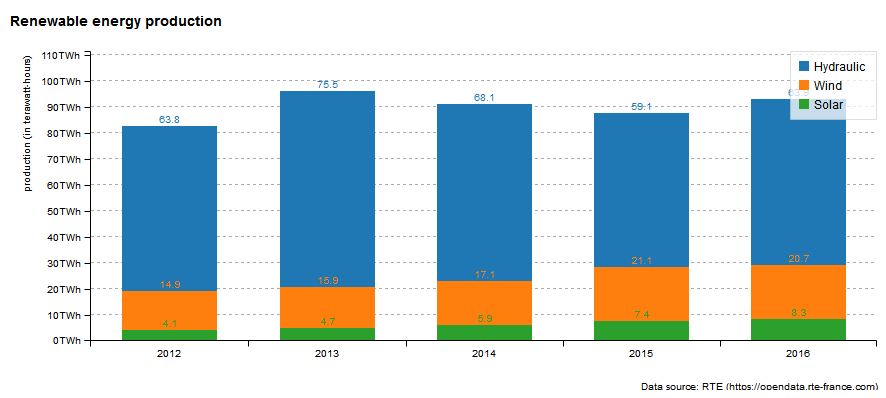
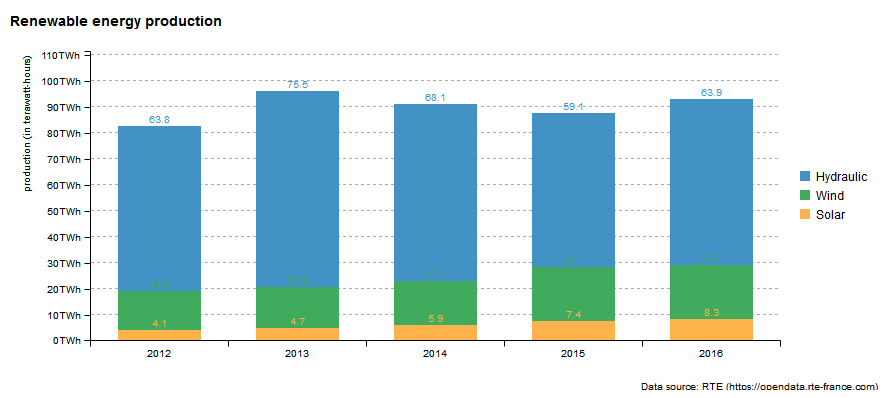
update readme

diff --git a/README.md b/README.md
@@ -6,13 +6,13 @@
 [![Travis-CI Build Status](https://travis-ci.org/dreamRs/billboarder.svg?branch=master)](https://travis-ci.org/dreamRs/billboarder)
 
 
-:construction: :warning: **package under developpement !** :warning: :construction:
-
 
 ## Overview
 
 This package allow you to use [billboard.js](https://naver.github.io/billboard.js/),
 a re-usable easy interface JavaScript chart library, based on D3 v4+.
+
+A **proxy** method is implemented to smoothly update charts in shiny applications, see below for details.
 
 Note : developpement is heavily inspired by awesome [highcharter](http://jkunst.com/highcharter/) by [Joshua Kunst](https://github.com/jbkunst).
 
@@ -27,86 +27,79 @@ devtools::install_github("dreamRs/billboarder")
 
 ## Bar chart
 
-For now, you can do barcharts !
+You can do barcharts !
 
 
 ```r
 library("billboarder")
-library("magrittr")
-library("data.table")
 
 # data
-data("mpg", package = "ggplot2")
-setDT(mpg)
+data("prod_par_filiere")
 
 # a bar chart !
 billboarder() %>%
-  bb_barchart(data = mpg[, list(count = .N), by = manufacturer][order(count, decreasing = TRUE)]) %>%
+  bb_barchart(data = prod_par_filiere[, c("annee", "prod_hydraulique")], color = "#102246") %>%
   bb_y_grid(show = TRUE) %>%
+  bb_y_axis(tick = list(format = suffix("TWh")),
+            label = list(text = "production (in terawatt-hours)", position = "outer-top")) %>% 
   bb_legend(show = FALSE) %>% 
-  bb_y_axis(label = list(text = "# of models", position = "outer-top")) %>% 
-  bb_title(text = "Popular models by manufacturer", position = "left-top", 
-           padding = list(top = 0, right = 0, left = 0, bottom = 20))
+  bb_labs(title = "French hydraulic production",
+          caption = "Data source: RTE (https://opendata.rte-france.com)")
 ```
 
-![](inst/img/barchart0.png)
+![](inst/img/rte_barchart0.png)
 
 
 
-Or with `dplyr` :
-
-```r
-library("dplyr")
-
-mpg %>% 
-  count(manufacturer) %>% 
-  arrange(n) %>% 
-  billboarder(data = .) %>% 
-  bb_barchart() %>%
-  bb_axis(rotated = TRUE) %>%
-  bb_title(text = "Number of models by manufacturer", position = "left-top")
-```
-
-
-
-
-### Dodge and stacked bar charts
-
-You have to reshape the data in a "wide" format :
+And dodge bar chart too !
 
 ```r
+library("billboarder")
+
+# data
+data("prod_par_filiere")
+
+# dodge bar chart !
 billboarder() %>%
-  bb_barchart(
-    data = dcast(
-      data = mpg[, list(count = .N), by = list(manufacturer, year)],
-      formula = manufacturer~year,
-      value.var = "count"
-    )
-  )
-
+  bb_barchart(data = prod_par_filiere[, c("annee", "prod_hydraulique", "prod_eolien", "prod_solaire")]) %>%
+  bb_data(names = list(prod_hydraulique = "Hydraulic", prod_eolien = "Wind", prod_solaire = "Solar")) %>% 
+  bb_y_grid(show = TRUE) %>%
+  bb_y_axis(tick = list(format = suffix("TWh")),
+            label = list(text = "production (in terawatt-hours)", position = "outer-top")) %>% 
+  bb_legend(position = "inset", inset = list(anchor = "top-right")) %>% 
+  bb_labs(title = "Renewable energy production",
+          caption = "Data source: RTE (https://opendata.rte-france.com)")
 ```
 
-![](inst/img/barchart_dodge1.png)
+![](inst/img/rte_barchart_dodge.png)
 
 
-With `dplyr` and `tidyr` :
+Even stacked bar charts !
 
 ```r
-mpg %>% 
-  group_by(manufacturer, year) %>% 
-  summarise(n = n()) %>% 
-  spread(year, n) %>% 
-  billboarder(data = .) %>%
-  bb_barchart(stacked = TRUE) %>% 
-  bb_data(labels = TRUE)
+library("billboarder")
 
+# data
+data("prod_par_filiere")
+
+# stacked bar chart !
+billboarder() %>%
+  bb_barchart(data = prod_par_filiere[, c("annee", "prod_hydraulique", "prod_eolien", "prod_solaire")], stacked = TRUE) %>%
+  bb_data(names = list(prod_hydraulique = "Hydraulic", prod_eolien = "Wind", prod_solaire = "Solar"), labels = TRUE) %>% 
+  bb_colors_manual("prod_eolien" = "#41AB5D", "prod_hydraulique" = "#4292C6", "prod_solaire" = "#FEB24C") %>%
+  bb_y_grid(show = TRUE) %>%
+  bb_y_axis(tick = list(format = suffix("TWh")),
+            label = list(text = "production (in terawatt-hours)", position = "outer-top")) %>% 
+  bb_legend(position = "right") %>% 
+  bb_labs(title = "Renewable energy production",
+          caption = "Data source: RTE (https://opendata.rte-france.com)")
 ```
 
-![](inst/img/barchart_stacked1.png)
+![](inst/img/rte_barchart_stacked.png)
 
 
 
-## Scatter chart
+## Scatter plot
 
 Classic :
 
@@ -118,6 +111,150 @@ billboarder() %>%
 
 ```
 ![](inst/img/scatterchart0.png)
+
+
+
+## Pie charts
+
+If you have to, you can do pie charts !
+
+```r
+library("billboarder")
+
+# data
+data("prod_par_filiere")
+nuclear2016 <- data.frame(
+  sources = c("Nuclear", "Other"),
+  production = c(
+    prod_par_filiere$prod_nucleaire[prod_par_filiere$annee == "2016"],
+    prod_par_filiere$prod_total[prod_par_filiere$annee == "2016"] -
+      prod_par_filiere$prod_nucleaire[prod_par_filiere$annee == "2016"]
+  )
+)
+
+# pie chart !
+billboarder() %>% 
+  bb_piechart(data = nuclear2016) %>% 
+  bb_labs(title = "Share of nuclear power in France in 2016",
+          caption = "Data source: RTE (https://opendata.rte-france.com)")
+```
+
+![](inst/img/rte_piechart.png)
+
+
+You can also do donut charts.
+
+
+## Lines charts
+
+A time serie with `Date` ! (subchart is optionnal)
+
+```r
+library("billboarder")
+
+# data
+data("equilibre_mensuel")
+
+# line chart
+billboarder() %>% 
+  bb_linechart(
+    data = equilibre_mensuel[, c("date", "consommation", "production")], 
+    type = "spline"
+  ) %>% 
+  bb_x_axis(tick = list(format = "%Y-%m", fit = FALSE)) %>% 
+  bb_x_grid(show = TRUE) %>% 
+  bb_y_grid(show = TRUE) %>% 
+  bb_colors_manual("consommation" = "firebrick", "production" = "forestgreen") %>% 
+  bb_legend(position = "right") %>% 
+  bb_subchart(show = TRUE, size = list(height = 30)) %>% 
+  bb_labs(title = "Monthly electricity consumption and production in France (2007 - 2017)",
+          y = "In megawatt (MW)",
+          caption = "Data source: RTE (https://opendata.rte-france.com)")
+```
+
+![](inst/img/rte_linechart_subchart.png)
+
+
+A time serie with `POSIXct` ! (and regions)
+
+```r
+library("billboarder")
+
+# data
+data("cdc_prod_filiere")
+
+# Retrieve sunrise and and sunset data with `suncalc`
+library("suncalc")
+sun <- getSunlightTimes(date = as.Date("2017-06-12"), lat = 48.86, lon = 2.34, tz = "CET")
+
+
+# line chart
+billboarder() %>% 
+  bb_linechart(data = cdc_prod_filiere[, c("date_heure", "prod_solaire")]) %>% 
+  bb_x_axis(tick = list(format = "%H:%M", fit = FALSE)) %>% 
+  bb_y_axis(min = 0, padding = 0) %>% 
+  bb_regions(
+    list(
+      start = as.numeric(cdc_prod_filiere$date_heure[1]) * 1000,
+      end = as.numeric(sun$sunrise)*1000
+    ), 
+    list(
+      start = as.numeric(sun$sunset) * 1000, 
+      end = as.numeric(cdc_prod_filiere$date_heure[48]) * 1000
+    )
+  ) %>% 
+  bb_x_grid(
+    lines = list(
+      list(value = as.numeric(sun$sunrise)*1000, text = "sunrise"),
+      list(value = as.numeric(sun$sunset)*1000, text = "sunset")
+    )
+  ) %>% 
+  bb_labs(title = "Solar production (2017-06-12)",
+          y = "In megawatt (MW)",
+          caption = "Data source: RTE (https://opendata.rte-france.com)")
+```
+
+![](inst/img/rte_linechart_regions.png)
+
+
+A stacked area chart !
+
+```r
+library("billboarder")
+
+# data
+data("cdc_prod_filiere")
+
+# area chart !
+billboarder() %>% 
+  bb_linechart(
+    data = cdc_prod_filiere[, c("date_heure", "prod_eolien", "prod_hydraulique", "prod_solaire")], 
+    type = "area"
+  ) %>% 
+  bb_data(
+    groups = list(list("prod_eolien", "prod_hydraulique", "prod_solaire")),
+    names = list("prod_eolien" = "Wind", "prod_hydraulique" = "Hydraulic", "prod_solaire" = "Solar")
+  ) %>% 
+  bb_legend(position = "inset", inset = list(anchor = "top-right")) %>% 
+  bb_colors_manual("prod_eolien" = "#238443", "prod_hydraulique" = "#225EA8", "prod_solaire" = "#FEB24C", opacity = 0.8) %>% 
+  bb_y_axis(min = 0, padding = 0) %>% 
+  bb_labs(title = "Renewable energy production (2017-06-12)",
+          y = "In megawatt (MW)",
+          caption = "Data source: RTE (https://opendata.rte-france.com)")
+```
+
+![](inst/img/rte_linechart_area.png)
+
+
+
+You can also do step lines.
+
+
+
+## Shiny interaction
+
+
+## Proxy
 
 
 ## Raw API
